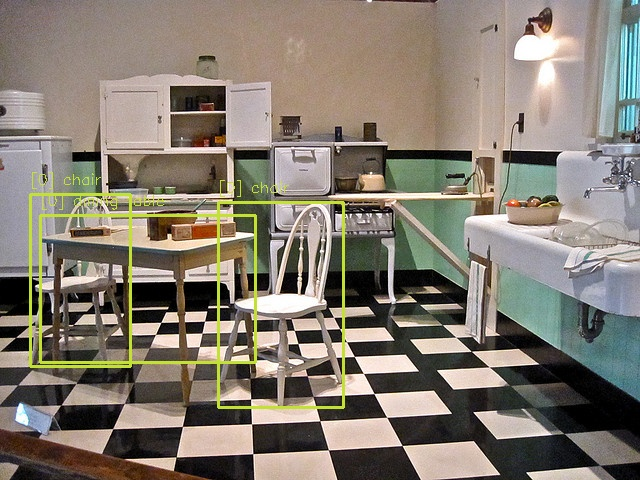
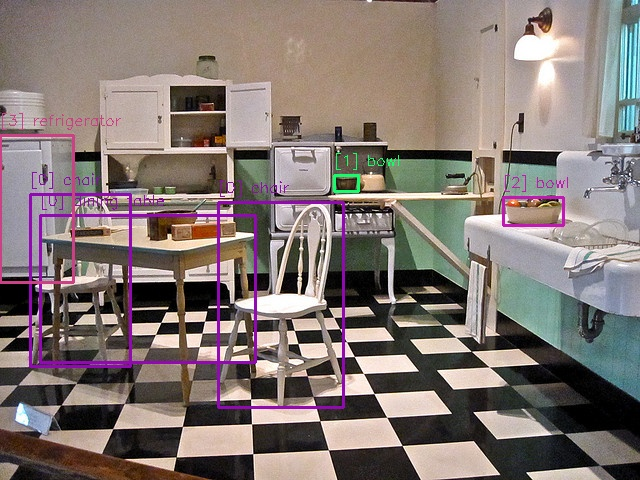
feat: transformer attention 추가

Changed region(s): [[0.0, 0.2188, 0.625, 0.875], [0.7812, 0.3438, 0.9062, 0.5]]

diff --git a/grouping.py b/grouping.py
@@ -3,6 +3,7 @@ from sklearn.cluster import DBSCAN
 from sklearn.metrics.pairwise import cosine_similarity
 from transformers import CLIPProcessor, CLIPModel
 import torch
+from torch.nn import TransformerEncoder, TransformerEncoderLayer
 import cv2
 import os
 import matplotlib.pyplot as plt
@@ -23,7 +24,7 @@ def get_clip_embedding(text):
     return embeddings.squeeze().cpu().numpy()  # shape: (512,)
 
 
-def cluster_by_clip_and_dbscan(filtered_objects, depth_weight=3.5, eps=2.0, min_samples=1):
+def cluster_by_clip_and_dbscan(filtered_objects, depth_weight=5.0, clip_weight=0.1, eps=1.5, min_samples=1):
     """
     CLIP + DBSCAN 기반 의미-거리 그룹화
     - filtered_objects: 필터링된 객체 리스트
@@ -35,35 +36,35 @@ def cluster_by_clip_and_dbscan(filtered_objects, depth_weight=3.5, eps=2.0, min_
     for obj in filtered_objects:
         obj["clip_embed"] = get_clip_embedding(obj["class_name"])
 
-    clip_matrix = np.array([obj["clip_embed"] for obj in filtered_objects])  # (N, 512)
+    clip_matrix = np.array([obj["clip_embed"] for obj in filtered_objects]) * clip_weight  # (N, 512)
     
     if clip_matrix.ndim == 1: # class가 하나일 경우 error 방지
         clip_matrix = clip_matrix.reshape(-1, 1)
 
     semantic_sim = cosine_similarity(clip_matrix)
-    semantic_dist = 1 - semantic_sim
-    semantic_dist = np.clip(semantic_dist, 0, 2) # 의미적 거리
+    semantic_dist = np.clip(1 - semantic_sim, 0, 2) # 의미적 거리
 
     xys = np.array([obj["center"] for obj in filtered_objects]) # x, y 정규화
     xys = (xys - xys.mean(axis=0)) / (xys.std(axis=0) + 1e-8)
 
-    # depth 가중치 적용
-    depths = np.array([[obj["depth"] * depth_weight] for obj in filtered_objects])
+    depths = np.array([[obj["depth"] * depth_weight] for obj in filtered_objects]) # depth 가중치 적용
     coords = np.concatenate([xys, depths], axis=1)
     spatial_dist = cdist(coords, coords) # 위치적 거리
 
-    '''
-    # 2. 벡터 구성: (center_x, center_y, depth, clip_embed)
-    vectors = []
-    for obj, coord in zip(filtered_objects, coords):
-        vec = np.concatenate([coord, obj["clip_embed"]])
-        vectors.append(vec)
+    # transformer 사용을 위한 feature
+    features = [np.concatenate([obj["clip_embed"], obj["center"], [obj["depth"]]]) for obj in filtered_objects]
+    features = torch.tensor(features).unsqueeze(1).float()  # (N, 1, D)
 
-    vectors = np.array(vectors)
-    '''
+    D = features.shape[-1]
 
-    alpha, beta = 0.7, 0.3
-    hybrid_dist = alpha * spatial_dist + beta * semantic_dist # 의미적 거리 + 위치적 거리
+    encoder_layer = TransformerEncoderLayer(d_model=D, nhead=5)
+    transformer = TransformerEncoder(encoder_layer, num_layers=2)
+    out = transformer(features)  # (N, 1, D)
+
+    attention_dist = cosine_similarity(out.squeeze(1).detach().numpy()) # attention을 적용한 의미적 거리
+
+    alpha, beta, gamma = 0.7, 0.3, 0.15
+    hybrid_dist = alpha * spatial_dist + beta * semantic_dist + gamma * attention_dist # 의미적 거리 + 위치적 거리
     hybrid_dist = np.clip(hybrid_dist, 0, None)
 
     # 3. DBSCAN clustering

diff --git a/object/object.py b/object/object.py
@@ -9,7 +9,7 @@ def load_yolo(model_path='object/yolov8s.pt'):
 
 def detect_objects(model, image_bgr):
     image_rgb = cv2.cvtColor(image_bgr, cv2.COLOR_BGR2RGB)
-    results = model(image_rgb)
+    results = model(image_rgb, iou=0.5)
     return results
 
 def visualize_detections(image, results, depth_map, class_names, save_path="output/result.jpg"):
@@ -35,7 +35,13 @@ def visualize_detections(image, results, depth_map, class_names, save_path="outp
     cv2.imwrite(save_path, image_with_boxes)
     print(f"Result image saved: {save_path}")
 
-def filter_detections(results, depth_map, conf_thresh=0.5, depth_thresh=8.0, area_thresh=500, class_names=None):
+def filter_detections(results, depth_map, conf_thresh=0.5, depth_thresh=15.0, area_thresh=250, class_names=None):
+    class_ids = [int(box.cls[0]) for box in results[0].boxes]
+    unique_classes = set(class_ids)
+
+    if len(unique_classes) <= 5:
+        conf_thresh = 0.25
+
     filtered = []
     for box in results[0].boxes:
         x1, y1, x2, y2 = map(int, box.xyxy[0])
@@ -44,7 +50,7 @@ def filter_detections(results, depth_map, conf_thresh=0.5, depth_thresh=8.0, are
         conf = float(box.conf[0])
         area = (x2 - x1) * (y2 - y1)
 
-        # depth calculation (median depth value in the bbox) -> 얘가 나을듯?
+        # depth calculation (median depth value in the bbox)
         # depth_map[cy, cx] -> center depth
         bbox_depth = depth_map[y1:y2, x1:x2]
         depth_val = np.median(bbox_depth)  

diff --git a/main.py b/main.py
@@ -5,6 +5,7 @@ if __name__ == "__main__":
     # 1. Depth Estimation + Object Detection + Filtering
     analyze = SceneAnalyze(r'C:\Users\user\Desktop\segmentation_iot\dataset\val2017 (1)\val2017\000000415194.jpg')
     # analyze = SceneAnalyze(r'C:\Users\user\Desktop\segmentation_iot\dataset\val2017 (1)\val2017\000000013659.jpg') 
+    # analyze = SceneAnalyze(r'C:\Users\user\Desktop\segmentation_iot\dataset\val2017 (1)\val2017\000000007281.jpg')
     analyze.run()
 
     print("[DEBUG] 필터링된 객체 수:", len(analyze.filtered_objects))
